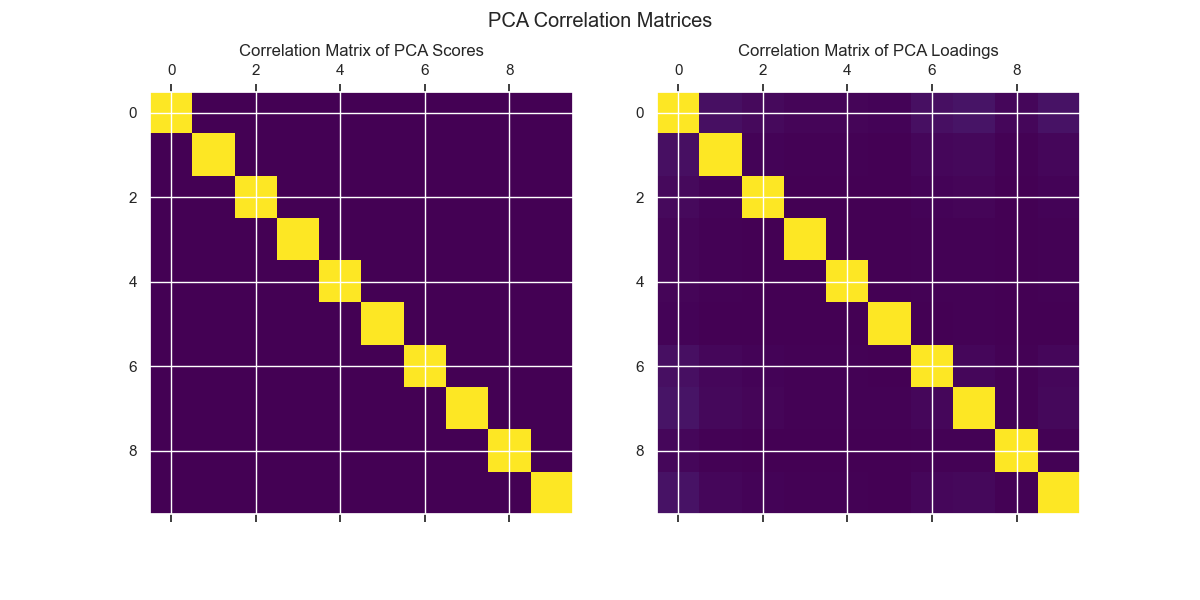
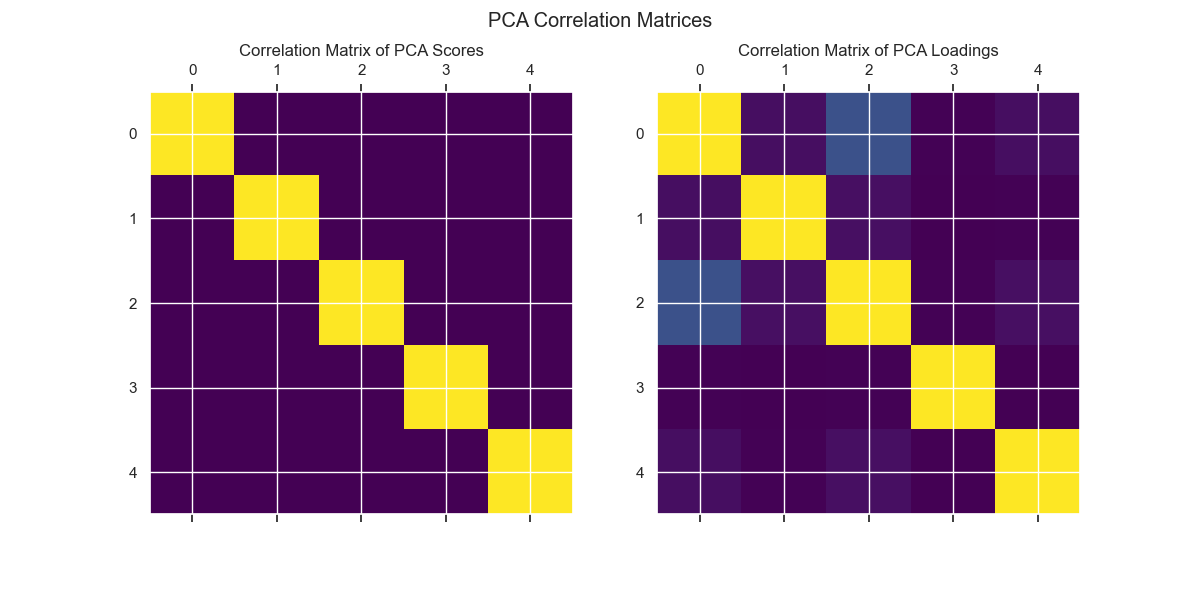
V2

diff --git a/src/case2/pca.py b/src/case2/pca.py
@@ -4,7 +4,7 @@ from pathlib import Path
 from sklearn.decomposition import PCA, SparsePCA
 import pandas as pd
 import seaborn as sns
-
+import math
 from data_loader import load_data
 
 sns.set(style="darkgrid")
@@ -158,7 +158,7 @@ def pca_correlation_matrix(X: np.ndarray, pca: PCA) -> None:
         )
 
 
-def plot_pca(X: np.ndarray, pca: PCA) -> None:
+def plot_pca(X: np.ndarray, y: np.ndarray, pca: PCA) -> None:
     """
     Plot the PCA results, coloring points by 'Phase'.
 
@@ -166,55 +166,67 @@ def plot_pca(X: np.ndarray, pca: PCA) -> None:
     ----------
     X : np.ndarray
         Input data for PCA.
+    y : np.ndarray
+        Labels/responses matrix.
     pca : PCA
         Fitted PCA object.
     """
     # Transform the data
     X_pca = pca.transform(X)
+    data = pd.concat([pd.DataFrame(X), pd.DataFrame(y)], axis=1)
 
-    # Extract unique values
-    phases = np.sort(X.index.get_level_values("Phase").unique())
-    frustrations = np.sort(X["Frustrated"].unique())
-    determined = np.sort(X["determined"].unique())
+    # Extract unique values for different categories
+    phases = np.sort(data.index.get_level_values("Phase").unique())
+    titles = {"Phase": phases}
+    for column in y.columns:
+        if column not in titles:
+            titles[column] = np.sort(data[column].unique())
 
-    titles = {"Phase": phases, "Frustrated": frustrations, "determined": determined}
+    # Determine grid dimensions using a near-square layout
+    n_plots = len(titles)
+    ncols = math.ceil(math.sqrt(n_plots))
+    nrows = math.ceil(n_plots / ncols)
 
-    for title, values in titles.items():
+    # Create subplots with each subplot sized ~7x7 inches
+    fig, axes = plt.subplots(nrows=nrows, ncols=ncols, figsize=(7 * ncols, 7 * nrows))
+    # Flatten the axes array for easy iteration and in case some subplots remain unused
+    axes = axes.flatten()
 
-        print(f"{title}: {values}")
-
-        colors = sns.color_palette("deep", len(values))
-        color_mapping = {
-            value: colors[i % len(colors)] for i, value in enumerate(values)}
-        
-        plt.figure(figsize=(8, 6))
-        for unique in values:
-            try: 
-                mask = X[title] == unique
-
+    # Iterate over each title and plot
+    for ax, (title, unique_values) in zip(axes, titles.items()):
+        for value in unique_values:
+            try:
+                mask = data.index.get_level_values(title) == value
             except KeyError:
-                # If the title is not in the DataFrame, use index level
-                mask = X.index.get_level_values("Phase") == unique
-            
-            plt.scatter(
-                X_pca[mask, 0],
-                X_pca[mask, 1],
-                label=unique,
-                alpha=0.5,
-                color=color_mapping[unique],)
-        plt.xlabel("Principal Component 1")
-        plt.ylabel("Principal Component 2")
-        plt.legend(title=title)
+                mask = data[title] == value
+            indices = np.where(mask)[0]
+            ax.scatter(
+                X_pca[indices, 0],
+                X_pca[indices, 1],
+                label=value,
+                alpha=0.7,
+            )
+        ax.set_xlabel("PC 1")
+        ax.set_ylabel("PC 2")
+        ax.axhline(0, color="grey", linestyle="--", linewidth=1)
+        ax.axvline(0, color="grey", linestyle="--", linewidth=1)
+        ax.legend()
+        ax.grid(True)
         if isinstance(pca, SparsePCA):
-            plt.title(f"Sparse PCA - {title}")
-            plt.savefig(
-                FIGURE_DIR / "sparse_pca" / f"sparse_pca_{title}.png",
-            )
+            ax.set_title(f"Sparse PCA - {title}")
         else:
-            plt.title(f"PCA - {title}")
-            plt.savefig(
-                FIGURE_DIR / "pca" / f"pca_{title}.png",
-            )
+            ax.set_title(f"PCA - {title}")
+
+    # Turn off any extra axes
+    for ax in axes[len(titles):]:
+        ax.set_visible(False)
+
+    plt.tight_layout()
+    if isinstance(pca, SparsePCA):
+        plt.savefig(FIGURE_DIR / "sparse_pca" / "pca_subplots.png")
+    else:
+        plt.savefig(FIGURE_DIR / "pca" / "pca_subplots.png")
+
 
 
 def plot_features_against_loadings(data: np.ndarray, features: list, pca: PCA) -> None:
@@ -258,7 +270,24 @@ def plot_features_against_loadings(data: np.ndarray, features: list, pca: PCA) -
         plt.savefig(
             FIGURE_DIR / "pca" /"pca_loadings.png",
         )
-    
+def print_top_features(pca: PCA, features: list, n_features: int = 3) -> None:
+    """
+    Print the top features for each PCA component.
+
+    Parameters
+    ----------
+    pca : PCA
+        Fitted PCA object.
+    n_features : int, optional
+        Number of top features to print for each component, by default 10.
+    """
+    loadings = pca.components_
+    for i in range(loadings.shape[0]):
+        top_indices = np.argsort(loadings[i])[-n_features:]
+        print(f"Top {n_features} features for component {i + 1}:")
+        print(", ".join([features[idx] for idx in top_indices]))
+        print()
+        
 
 def pca_pipeline(pca: PCA) -> None:
     """
@@ -275,37 +304,39 @@ def pca_pipeline(pca: PCA) -> None:
     # Preprocess data
     X_preprocessed, y_preprocessed = preprocess_pca_data(X, y)
 
-    hr_preprocessed = pd.concat([X_preprocessed, y_preprocessed], axis=1)
+    
 
     # Fit PCA
-    pca.fit(hr_preprocessed)
+    pca.fit(X_preprocessed)
 
     if isinstance(pca, SparsePCA):
         print("Sparse PCA")
 
     else:
         print("PCA")
-
         # Plot explained variance
         plot_explained_variance(pca)
 
         # Scree plot
-        scree_plot(hr_preprocessed, pca)
+        scree_plot(X_preprocessed, pca)
 
     # Correlation matrix
-    pca_correlation_matrix(hr_preprocessed, pca)
+    pca_correlation_matrix(X_preprocessed, pca)
 
     # Plot PCA
-    plot_pca(hr_preprocessed, pca)
+    plot_pca(X_preprocessed, y_preprocessed, pca)
 
-    # Plot PCA loadings
-    features = y.columns.drop(["Cohort", "Puzzler"])
-    plot_features_against_loadings(hr_preprocessed, features, pca)
+    # # Plot PCA loadings
+    features = X.columns[::8]
+    plot_features_against_loadings(X_preprocessed, features, pca)
+
+    # Print top features
+    print_top_features(pca, X.columns, n_features=3)
 
 
 if __name__ == "__main__":
     # Example usage
-    pca = PCA(n_components=10)
+    pca = PCA(n_components=5)
     pca_pipeline(pca)
-    sparse_pca = SparsePCA(n_components=10)
+    sparse_pca = SparsePCA(n_components=5, alpha=0.1, ridge_alpha=0.1)
     pca_pipeline(sparse_pca)
